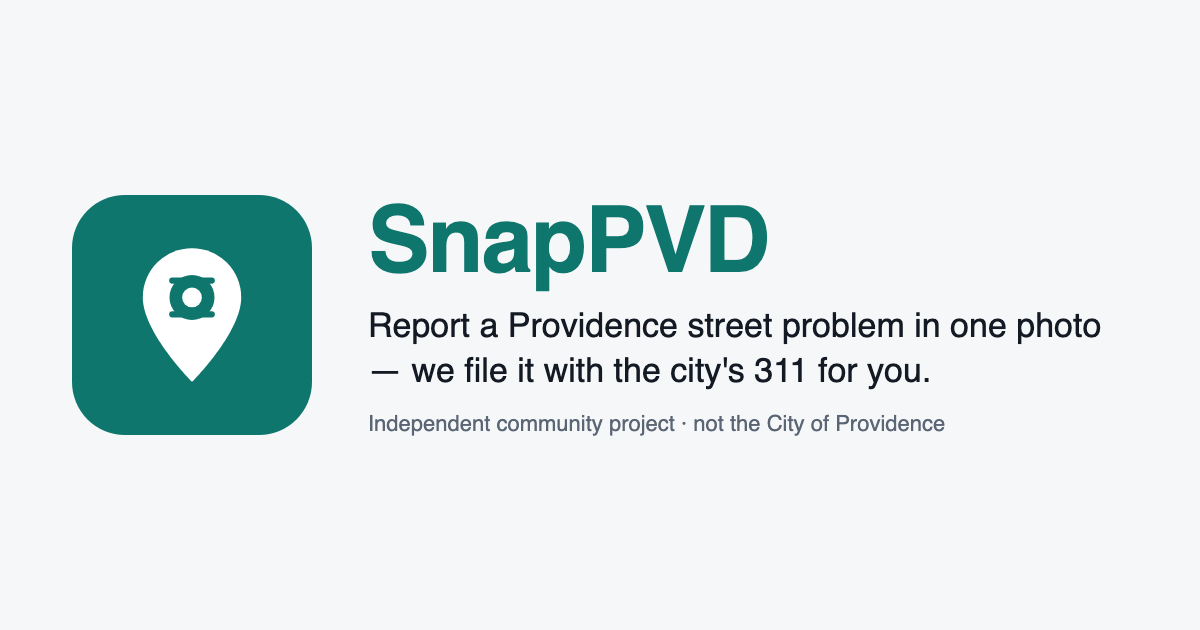
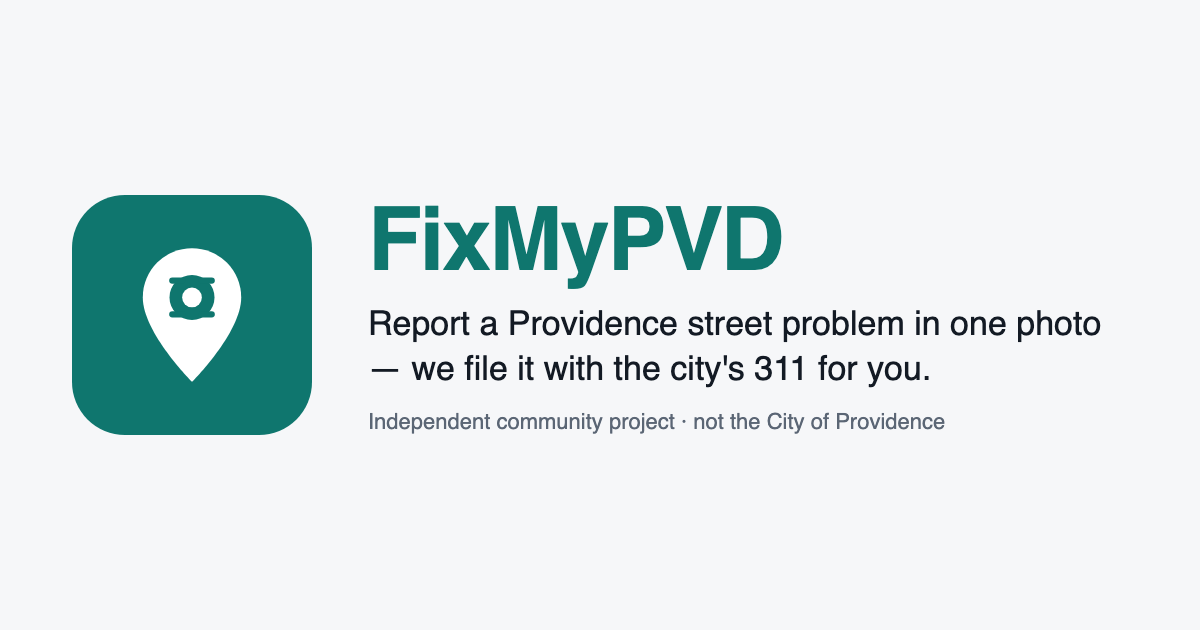
Rename SnapPVD → FixMyPVD in marketing kit, cutover doc, README, OG image (app brand strings: design lead)
Claude-Session: https://claude.ai/code/session_01Q1REyxEbp4GnvgMyznMTpX

diff --git a/marketing/facebook.md b/marketing/facebook.md
@@ -1,6 +1,6 @@
 # Facebook Groups
 
-> **SNAPPVD_URL** = https://pvdsnow.org — placeholder used throughout this file. Swap to https://snappvd.org once that domain is bought (one find-and-replace of `SNAPPVD_URL`).
+> **FIXMYPVD_URL** = https://pvdsnow.org — placeholder used throughout this file. Swap to https://fixmypvd.org once that domain is bought (one find-and-replace of `FIXMYPVD_URL`).
 
 Two variants below: one for neighborhood groups (East Side, West End, Federal Hill, Elmwood, etc.), one for ward / neighborhood-association groups. Read each group's rules first; many require mod approval for links. Pair with a photo of a real problem (a pothole, an overflowing bin) if the group allows it. Lead with the everyday pothole/trash pain.
 
@@ -8,20 +8,20 @@ Two variants below: one for neighborhood groups (East Side, West End, Federal Hi
 
 ## Neighborhood-group post
 
-Got a pothole that's been sitting for weeks, or a trash pickup they skipped? I built a free tool called **SnapPVD** that files a Providence 311 report for you in about 30 seconds from your phone.
+Got a pothole that's been sitting for weeks, or a trash pickup they skipped? I built a free tool called **FixMyPVD** that files a Providence 311 report for you in about 30 seconds from your phone.
 
 Pick the problem — pothole, missed trash or recycling, broken street light, illegal dumping, abandoned vehicle, parking, an animal issue, and more — snap a photo, confirm the address, and send. We relay it into the city's official 311 for you, and you get a link to track it. No account, and there's a Spanish version too.
 
-To be upfront: this is a volunteer community project. SnapPVD is an independent community project and is not affiliated with, endorsed by, or operated by the City of Providence. A neighbor reviews each report before it's filed, so it's not instant, and it's **not for emergencies** — call 911 for those. Once filed, a report is a public record on the city's 311 feed.
+To be upfront: this is a volunteer community project. FixMyPVD is an independent community project and is not affiliated with, endorsed by, or operated by the City of Providence. A neighbor reviews each report before it's filed, so it's not instant, and it's **not for emergencies** — call 911 for those. Once filed, a report is a public record on the city's 311 feed.
 
-If your block needs something fixed, give it a try: **SNAPPVD_URL**
+If your block needs something fixed, give it a try: **FIXMYPVD_URL**
 
 ---
 
 ## Ward / neighborhood-association-group variant
 
-Sharing a free tool some neighbors have been using to report the small stuff around the ward — potholes, missed trash and recycling, broken street lights, illegal dumping, abandoned vehicles, parking, and more. It's called **SnapPVD**: pick the problem, snap a photo, confirm the address, and it files a Providence 311 report for you in about 30 seconds. You get a tracking link, and there's a public map of recent reports across the city, so it's easy to see what's already been flagged nearby. Works in Spanish, no account needed.
+Sharing a free tool some neighbors have been using to report the small stuff around the ward — potholes, missed trash and recycling, broken street lights, illegal dumping, abandoned vehicles, parking, and more. It's called **FixMyPVD**: pick the problem, snap a photo, confirm the address, and it files a Providence 311 report for you in about 30 seconds. You get a tracking link, and there's a public map of recent reports across the city, so it's easy to see what's already been flagged nearby. Works in Spanish, no account needed.
 
-Full disclosure: it's a volunteer community project — SnapPVD is an independent community project and is not affiliated with, endorsed by, or operated by the City of Providence. A person reviews each report before filing, so it takes a little time, and it's **not for emergencies** — call 911 for anything urgent. Filed reports are public records on the city's 311 feed.
+Full disclosure: it's a volunteer community project — FixMyPVD is an independent community project and is not affiliated with, endorsed by, or operated by the City of Providence. A person reviews each report before filing, so it takes a little time, and it's **not for emergencies** — call 911 for anything urgent. Filed reports are public records on the city's 311 feed.
 
-If it's useful for keeping the ward's requests moving, here it is: **SNAPPVD_URL**
+If it's useful for keeping the ward's requests moving, here it is: **FIXMYPVD_URL**

diff --git a/docs/cutover.md b/docs/cutover.md
@@ -1,25 +1,25 @@
-# Cutover checklist — SnapPVD client goes live
+# Cutover checklist — FixMyPVD client goes live
 
-Goal: `app/` served at **https://snappvd.org** (and the Firebase hosting domains), `public/` retired, pvdsnow.org redirecting.
+Goal: `app/` served at **https://fixmypvd.org** (and the Firebase hosting domains), `public/` retired, pvdsnow.org redirecting.
 
 ## 0. Prereqs (Rob)
-- [ ] Buy `snappvd.org` (Cloudflare Registrar, dashboard; no API). `.com` optional → redirect.
+- [ ] Buy `fixmypvd.org` (Cloudflare Registrar, dashboard; no API). `.com` optional → redirect.
 - [ ] Decide: keep Firebase Hosting for the client (current plan) or move to Cloudflare Pages later.
 
 ## 1. Hosts allow-lists (alice — Worker + Cloudflare)
-- [ ] Turnstile widget domains: add `snappvd.org`, `www.snappvd.org` (preview channels `*--pvd-snow-report.web.app` can't be listed — previews stay view-only).
-- [ ] Worker CORS origins: add `https://snappvd.org`, `https://www.snappvd.org`.
-- [ ] Worker: tracking URLs / emails use `https://snappvd.org/r/{id}`.
+- [ ] Turnstile widget domains: add `fixmypvd.org`, `www.fixmypvd.org` (preview channels `*--pvd-snow-report.web.app` can't be listed — previews stay view-only).
+- [ ] Worker CORS origins: add `https://fixmypvd.org`, `https://www.fixmypvd.org`.
+- [ ] Worker: tracking URLs / emails use `https://fixmypvd.org/r/{id}`.
 - [ ] DNS (Cloudflare zone, DNS-only/grey cloud for Firebase): `A`/`TXT` records from the Firebase custom-domain wizard.
 
 ## 2. Client (bob)
 - [ ] `app/src/brand.ts`: `siteUrl`, `domain`, `contactEmail` final.
 - [ ] `firebase.json`: confirm headers; `npm run preview:app` → smoke on a phone.
-- [ ] Firebase console → Hosting → add custom domain `snappvd.org` (+ `www`), complete verification, wait for cert.
+- [ ] Firebase console → Hosting → add custom domain `fixmypvd.org` (+ `www`), complete verification, wait for cert.
 - [x] `npm run deploy` — live on pvdsnow.org + pvd-snow-report.web.app since 2026-08-22.
-- [x] (done from pvdsnow.org 2026-08-22; repeat from snappvd.org) Real-browser E2E: submit (photo-optional category, test-marked), confirm Turnstile passes, tracking page renders, `/map` loads. Tell alice to reject the test report.
+- [x] (done from pvdsnow.org 2026-08-22; repeat from fixmypvd.org) Real-browser E2E: submit (photo-optional category, test-marked), confirm Turnstile passes, tracking page renders, `/map` loads. Tell alice to reject the test report.
 - [ ] Retire legacy: DONE: `firebase.json` hosting → `app/dist`. Remove Firestore client rules/App Check enforcement once no client writes remain (alice owns rules).
-- [ ] pvdsnow.org → 301 to snappvd.org (Firebase Hosting `redirects` in `firebase.json`, keyed on host, or at Cloudflare once the old zone moves).
+- [ ] pvdsnow.org → 301 to fixmypvd.org (Firebase Hosting `redirects` in `firebase.json`, keyed on host, or at Cloudflare once the old zone moves).
 
 ## 3. After
 - [ ] `robots.txt` Sitemap line → real sitemap or drop it.

diff --git a/marketing/nextdoor.md b/marketing/nextdoor.md
@@ -1,15 +1,15 @@
 # Nextdoor
 
-> **SNAPPVD_URL** = https://pvdsnow.org — placeholder used throughout this file. Swap to https://snappvd.org once that domain is bought (one find-and-replace of `SNAPPVD_URL`).
+> **FIXMYPVD_URL** = https://pvdsnow.org — placeholder used throughout this file. Swap to https://fixmypvd.org once that domain is bought (one find-and-replace of `FIXMYPVD_URL`).
 
 Post to your own neighborhood. Neighborly tone. Lead with the everyday pothole/trash pain.
 
 ## Post
 
-Tired of that pothole on your street, or a trash pickup they skipped? I built a free tool called **SnapPVD** that files a Providence 311 report for you in about 30 seconds, right from your phone.
+Tired of that pothole on your street, or a trash pickup they skipped? I built a free tool called **FixMyPVD** that files a Providence 311 report for you in about 30 seconds, right from your phone.
 
 Pick the problem — pothole, missed trash or recycling, broken street light, illegal dumping, abandoned vehicle, parking, an animal issue, and more — snap a photo, confirm the address, and send. We relay it into the city's official 311 for you, and you get a link to track it. No account, and it works in Spanish too.
 
-A few honest things: this is a volunteer community project — SnapPVD is an independent community project and is not affiliated with, endorsed by, or operated by the City of Providence. A neighbor reviews each report before it's filed, so it's not instant, and it's **not for emergencies** — call 911 for anything urgent. Once filed, a report is a public record on the city's 311 feed.
+A few honest things: this is a volunteer community project — FixMyPVD is an independent community project and is not affiliated with, endorsed by, or operated by the City of Providence. A neighbor reviews each report before it's filed, so it's not instant, and it's **not for emergencies** — call 911 for anything urgent. Once filed, a report is a public record on the city's 311 feed.
 
-If your block has something that needs fixing, give it a try: **SNAPPVD_URL**
+If your block has something that needs fixing, give it a try: **FIXMYPVD_URL**

diff --git a/marketing/twitter.md b/marketing/twitter.md
@@ -1,17 +1,17 @@
 # X / Twitter
 
-> **SNAPPVD_URL** = https://pvdsnow.org — placeholder used throughout this file. Swap to https://snappvd.org once that domain is bought (one find-and-replace of `SNAPPVD_URL`).
+> **FIXMYPVD_URL** = https://pvdsnow.org — placeholder used throughout this file. Swap to https://fixmypvd.org once that domain is bought (one find-and-replace of `FIXMYPVD_URL`).
 
 Three short posts. Space them out — don't fire all three at once. Keep the quiet-launch discipline: **don't tag the city or reporters at launch.** Press comes later, and only if traction is organic (see README).
 
 ## Launch
 
-New: **SnapPVD** — a free way to file a Providence 311 report from your phone in about 30 seconds. Pick the problem, snap a photo, send. We relay it to the city's official 311 and give you a link to track it. Volunteer project, not the city. **SNAPPVD_URL**
+New: **FixMyPVD** — a free way to file a Providence 311 report from your phone in about 30 seconds. Pick the problem, snap a photo, send. We relay it to the city's official 311 and give you a link to track it. Volunteer project, not the city. **FIXMYPVD_URL**
 
 ## Pothole
 
-That pothole that's been on your block for weeks? Report it to Providence 311 in about 30 seconds with **SnapPVD** — snap a photo, confirm the address, send. We file it with the city for you and you get a link to track it. **SNAPPVD_URL**
+That pothole that's been on your block for weeks? Report it to Providence 311 in about 30 seconds with **FixMyPVD** — snap a photo, confirm the address, send. We file it with the city for you and you get a link to track it. **FIXMYPVD_URL**
 
 ## Missed trash
 
-They skip your trash or recycling pickup? **SnapPVD** files a Providence 311 report for you in about 30 seconds — photo optional for this one, no account. Volunteer project, not the city; you get a link to follow it. **SNAPPVD_URL**
+They skip your trash or recycling pickup? **FixMyPVD** files a Providence 311 report for you in about 30 seconds — photo optional for this one, no account. Volunteer project, not the city; you get a link to follow it. **FIXMYPVD_URL**

diff --git a/README.md b/README.md
@@ -1,8 +1,8 @@
-# SnapPVD
+# FixMyPVD
 
-Report a Providence street problem in one photo — we file it with the city's 311 for you. **SnapPVD is an independent community project and is not affiliated with, endorsed by, or operated by the City of Providence.**
+Report a Providence street problem in one photo — we file it with the city's 311 for you. **FixMyPVD is an independent community project and is not affiliated with, endorsed by, or operated by the City of Providence.**
 
-Pre-launch (quiet). Live at [pvdsnow.org](https://pvdsnow.org) until snappvd.org is bought. Product spec: [`docs/product-spec.md`](docs/product-spec.md).
+Pre-launch (quiet). Live at [pvdsnow.org](https://pvdsnow.org) until fixmypvd.org is bought. Product spec: [`docs/product-spec.md`](docs/product-spec.md).
 
 Relaunched August 2026 from the winter-only PVD Snow project (same repo, see git history before `c81a893`). Plan and status: [`PLAN.md`](PLAN.md), [`.claude/STATE.md`](.claude/STATE.md). Portal research: [`scripts/`](scripts/).
 
@@ -27,7 +27,7 @@ Relaunched August 2026 from the winter-only PVD Snow project (same repo, see git
 ## Project structure
 
 ```
-app/               SnapPVD client (React)
+app/               FixMyPVD client (React)
   src/screens/     Report (tiles → details), Track (/r/:id), Feed (/map), MyReports, About, Privacy
   src/api/         Worker API client + types (wire contract)
   src/lib/         categories (from shared/), geo (EXIF, geocode, compress), outbox, myReports
@@ -36,7 +36,7 @@ app/               SnapPVD client (React)
   tests/           Playwright (mobile emulation, API mocked)
 worker/            Cloudflare Worker: app API, engine, HITL, watcher, admin
 shared/            category registry (single source of truth)
-docs/              product-spec.md (SnapPVD), provisioning-task.md
+docs/              product-spec.md (FixMyPVD), provisioning-task.md
 automation/        legacy laptop engine (reference)
 scripts/           portal research, case-type census
 firebase.json      hosting → app/dist

diff --git a/marketing/media-tip.md b/marketing/media-tip.md
@@ -1,6 +1,6 @@
 # Media Tip
 
-> **SNAPPVD_URL** = https://pvdsnow.org — placeholder used throughout this file. Swap to https://snappvd.org once that domain is bought (one find-and-replace of `SNAPPVD_URL`).
+> **FIXMYPVD_URL** = https://pvdsnow.org — placeholder used throughout this file. Swap to https://fixmypvd.org once that domain is bought (one find-and-replace of `FIXMYPVD_URL`).
 
 **Send this only if traction is already organic** (see README, launch step 4). One soft tip to a single RI outlet — **What'sUpNewp** or **GoLocalProv**. Still no city outreach. Fill in the bracketed contact details before sending.
 
@@ -10,13 +10,13 @@ A Providence resident built a free app to make 311 reporting a 30-second job
 
 ## Tip
 
-A Providence resident has quietly launched **SnapPVD** (SNAPPVD_URL), a free tool that lets people file a city 311 report from their phone in about 30 seconds — pick the problem, snap a photo, confirm the address, and send.
+A Providence resident has quietly launched **FixMyPVD** (FIXMYPVD_URL), a free tool that lets people file a city 311 report from their phone in about 30 seconds — pick the problem, snap a photo, confirm the address, and send.
 
 It covers the everyday stuff residents already report: potholes, missed trash and recycling pickups, broken street lights, illegal dumping, abandoned vehicles, parking issues, and more. Reports are relayed into the city's official 311 system, and each reporter gets a link to track their request. There's a public map of recent reports, and the tool is available in Spanish.
 
 It's a volunteer community project and is not affiliated with, endorsed by, or operated by the City of Providence. A person reviews each report before it's filed, and it's not meant for emergencies — residents are directed to call 911 for anything urgent.
 
-**Link:** SNAPPVD_URL
+**Link:** FIXMYPVD_URL
 
 **Contact:** [YOUR NAME], [YOUR EMAIL / PHONE]
 

diff --git a/marketing/README.md b/marketing/README.md
@@ -1,19 +1,19 @@
-# SnapPVD — quiet-launch kit
+# FixMyPVD — quiet-launch kit
 
-Copy for the SnapPVD launch. Each channel has its own file; post in the order below, and **each step is gated on the previous one going smoothly.**
+Copy for the FixMyPVD launch. Each channel has its own file; post in the order below, and **each step is gated on the previous one going smoothly.**
 
 ## The one rule
 
-**No city outreach — ever — unless the city contacts us first.** SnapPVD is an independent community project and is not affiliated with, endorsed by, or operated by the City of Providence. Don't tag, DM, email, or reply to city accounts to promote it. If the city reaches out, that's a separate conversation.
+**No city outreach — ever — unless the city contacts us first.** FixMyPVD is an independent community project and is not affiliated with, endorsed by, or operated by the City of Providence. Don't tag, DM, email, or reply to city accounts to promote it. If the city reaches out, that's a separate conversation.
 
 ## The URL placeholder
 
-Every file uses the token **`SNAPPVD_URL`** in place of the live URL, with the current value in a header line at the top of the file:
+Every file uses the token **`FIXMYPVD_URL`** in place of the live URL, with the current value in a header line at the top of the file:
 
 - **Now:** `https://pvdsnow.org`
-- **Later:** `https://snappvd.org`, once the domain is bought.
+- **Later:** `https://fixmypvd.org`, once the domain is bought.
 
-To publish, find-and-replace `SNAPPVD_URL` with the current URL. When the domain changes, that's the only edit.
+To publish, find-and-replace `FIXMYPVD_URL` with the current URL. When the domain changes, that's the only edit.
 
 ## Launch order (from product-spec §5)
 

diff --git a/marketing/screenshots-fixmypvd/README.md b/marketing/screenshots-fixmypvd/README.md
@@ -1,3 +1,3 @@
-# SnapPVD screenshots (2026-08-22)
+# FixMyPVD (screens still show the old SnapPVD wordmark — recapture after the design lead ships the rebrand) screenshots (2026-08-22)
 
 Captured from the live site at iPhone 13 size, light theme. **3-tracking and 4-public-map use demo data** (the case number PVD2026-88012 and the map pins are illustrative, not real reports) — say so if you post them, or recapture after real reports exist.
